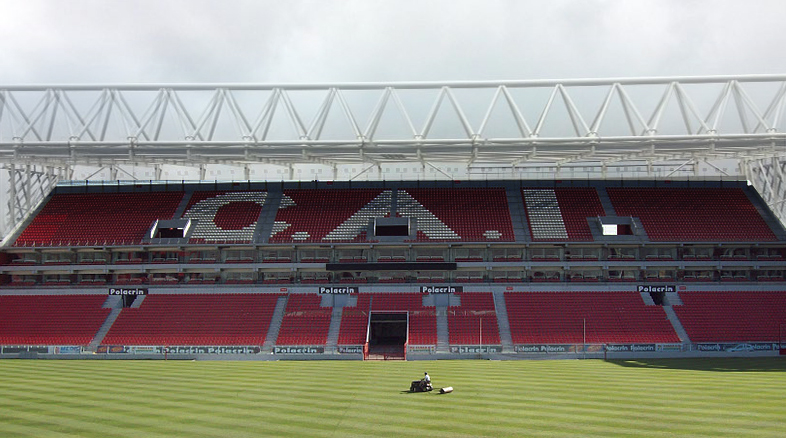
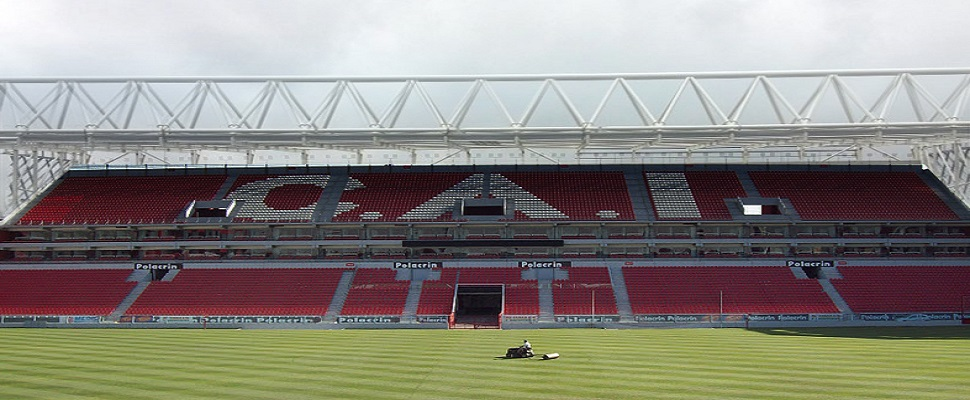
algunas mejoras

diff --git a/index.html b/index.html
@@ -10,8 +10,10 @@
 </head>
 <body>
 <div class="container">  
+
 <div class="page-header">
-    <h1> Club Atletico Independiente</h1>
+    <h1> Club Atlético Independiente</h1>
+    <!--<img src="img/escudo2.png" class="masthead-brand" alt="escudo" width="85" height="73">-->
 </div>
 
 <nav class="navbar navbar-default">
@@ -43,19 +45,6 @@
         <li><a href="contacto.html">Contacto</a></li>
      
       </ul>
-     
-      <ul class="nav navbar-nav navbar-right">
-        <li class="dropdown">
-          <a href="#" class="dropdown-toggle" data-toggle="dropdown" role="button" aria-haspopup="true" aria-expanded="false">Acerca de <span class="caret"></span></a>
-          <ul class="dropdown-menu">
-            <li><a href="#">Action</a></li>
-            <li><a href="#">Another action</a></li>
-            <li><a href="#">Something else here</a></li>
-            <li role="separator" class="divider"></li>
-            <li><a href="#">Separated link</a></li>
-          </ul>
-        </li>
-      </ul>
     </div><!-- /.navbar-collapse -->
   </div><!-- /.container-fluid -->
 </nav>
@@ -63,16 +52,18 @@
 
 <div id="carousel-example-generic" class="carousel slide" data-ride="carousel">
   <!-- Indicators -->
-  <!--<ol class="carousel-indicators">
+  <ol class="carousel-indicators">
     <li data-target="#carousel-example-generic" data-slide-to="0" class="active"></li>
     <li data-target="#carousel-example-generic" data-slide-to="1"></li>
     <li data-target="#carousel-example-generic" data-slide-to="2"></li>
-  </ol> -->
+  </ol> 
 
+  
   <!-- Wrapper for slides -->
+  
   <div class="carousel-inner">
     <div class="item active">
-      <img src="img/rojo_goleada_racing.jpg" alt="goleada del rojo">
+      <img src="img/rojo_goleada_racing_carou.jpg" alt="goleada del rojo">
       <div class="carousel-caption"><!-- caption es la leyenda o subtitulo -->
           <h3>Triunfo con goleada</h3>
           <p>El rojo ganó con comodidad</p>
@@ -144,10 +135,35 @@
       <div class="caption">
         <h3>El rojo ganó el clasico por goleada</h3>
         <p>Lorem ipsum dolor sit amet, consectetur adipisicing elit. Sit repellat repellendus sint eos aut obcaecati? Voluptate at, dolor hic, harum quisquam doloribus! Ipsa aliquam, sunt incidunt cumque maiores quos ab.</p>
-        <p> <a href="#" class="btn btn-default" role="button">Mas detalles</a></p>
+        <p> 
+            <!-- Button trigger modal -->
+            <button type="button" class="btn btn-default" data-toggle="modal" data-target="#seccion">
+                  Mas detalles
+            </button>
+        </p>
+                <!-- Modal -->
+        <div class="modal fade" id="seccion" tabindex="-1" role="dialog" aria-labelledby="myModalLabel">
+          <div class="modal-dialog" role="document">
+            <div class="modal-content">
+              <div class="modal-header">
+                <button type="button" class="close" data-dismiss="modal" aria-label="Close"><span aria-hidden="true">&times;</span></button>
+                <h4 class="modal-title" id="myModalLabel">El rojo ganó el clasico por goleada</h4>
+              </div>
+              <div class="modal-body">
+                Lorem ipsum dolor sit amet, consectetur adipisicing elit. Officia deserunt voluptatum est quae explicabo fugit harum, voluptatem. Veritatis recusandae illum adipisci distinctio amet nemo. Pariatur dolorem dolore itaque, blanditiis magni.
+                Lorem ipsum dolor sit amet, consectetur adipisicing elit. Itaque ipsa repudiandae earum ad voluptatibus, qui quia, sed omnis modi quas dolorem, odio, error perferendis asperiores molestias pariatur. Provident incidunt, temporibus!
+                    
+                    <img src="img/rojo_goleada_racing.jpg" alt="goleada a racing">  
+              </div>
+              <div class="modal-footer">
+                <button type="button" class="btn btn-primary" data-dismiss="modal">Close</button>
+              </div>
+            </div>
+          </div>
+        </div>
       </div>
     </div>
-  </div>
+  </div><!-- End Modal -->
   <div class="art col-sm-6 col-md-4">
     <div class="thumbnail">
       <img src="img/maradona-con-bochini.jpg" alt="...">

diff --git a/contacto.html b/contacto.html
@@ -45,19 +45,6 @@
               <li><a href="contacto.html">Contacto</a></li>
 
             </ul>
-
-            <ul class="nav navbar-nav navbar-right">
-              <li class="dropdown">
-                <a href="#" class="dropdown-toggle" data-toggle="dropdown" role="button" aria-haspopup="true" aria-expanded="false">Acerca de <span class="caret"></span></a>
-                <ul class="dropdown-menu">
-                  <li><a href="#">Action</a></li>
-                  <li><a href="#">Another action</a></li>
-                  <li><a href="#">Something else here</a></li>
-                  <li role="separator" class="divider"></li>
-                  <li><a href="#">Separated link</a></li>
-                </ul>
-              </li>
-            </ul>
           </div>
           <!-- /.navbar-collapse -->
         </div>
@@ -67,22 +54,20 @@
       <div class="row">
 
         <div class="col-md-6">
-          <form role="form">
+          
+          <form role="form" id="form-contacto">
             <div class="form-group">
-              <input type="text" class="form-control" required id="nombre_1" placeholder="Nombre (requerido)">
+              <input type="text" class="form-control" required   id="nombre_1" placeholder="Nombre (requerido)" autofocus>
             </div>
             <div class="form-group">
-
               <input type="email" class="form-control" id="email_1" placeholder="tumail@mail.com (requerido)" required aria-errormessage="hhhhhhhhhhhhhhh">
             </div>
             <div class="form-group">
-
               <input type="text" class="form-control" id="asunto_1" placeholder="Asunto">
             </div>
             <div class="form-group">
               <textarea class="form-control" id="mensaje_1" rows="3" placeholder="Mensaje"></textarea>
             </div>
-
             <button type="submit" class="btn btn-default">Enviar</button>
           </form>
 

diff --git a/css/mi-estilo.css b/css/mi-estilo.css
@@ -7,35 +7,46 @@ body{
     padding-left: 60px;
     margin-right: auto;
     margin-left: auto;
-    background-color: #b00910;
-    
+    background-color: #b00910;   
 }
 .page-header{
-    margin: 20px 0px 0px 0px;
+    margin: 20px 0px 0px 0px ;
     /*background-image: url("https://yt3.ggpht.com/YEKCYc6KjImHT3ASnvn-3SY_iE2D5WbR9wmTLKGEcECBMpHg8D5DxJ0LDfcgh0icU-ZfroDjG-U=w1060-fcrop64=1,00005a57ffffa5a8-nd-c0xffffffff-rj-k-no");
      background-color: transparent; */ 
-     background: #b00910 url("http://estatico.clubaindependiente.com/img/fondos/_banda_r.jpg");
+     /*background: #b00910 url("http://estatico.clubaindependiente.com/img/fondos/_banda_r.jpg");*/
      /*background: #b00910 url("http://estatico.clubaindependiente.com/img/fondos/hd_rayos.png");*/
      border-radius: 4px;   
 }
-.page-header  h1 {
-    font: white;
+.page-header > h1 {
+    color: white;
+}
+.page-header  img {
+    max-width: 82px;
+    max-height: 73px;
+    position: relative;
+    bottom: 65px;
+    float: right;
 }
 .navbar navbar-default{
-   /* background-color: rgba(248, 248, 248, 0.5);*/
-   
-   
+   /* background-color: rgba(248, 248, 248, 0.5);*/ 
+}
+.nav>li {
+    margin-right: 18px;
+    margin-left: 18px;
 }
 .dropdown-menu > li{
     background-color: #b00910;
     text: white;
 }
 .carousel-caption{
-    background: rgba(255,255,255,.8);
+    background: rgba(255,255,255,.6);
     padding: 4px 8px;
+    box-shadow: 3px;
+    border-radius: 6px;
 }
-.carousel-inner h3{
-   color: red;
+.carousel-inner h3, p{
+   /*color: #333;*/
+   color: #2c2c2c;
 }
 .art img,  .thumbnail a > img{
     position: relative; 
@@ -46,9 +57,9 @@ body{
 img{
     width: 100%;
 }
-.carousel-inner{/* o .carousel img{} */
+.carousel img{
     max-height: 400px;
-    margin-bottom: 40px;
+    margin-bottom: 30px;
 
 }
 footer{
